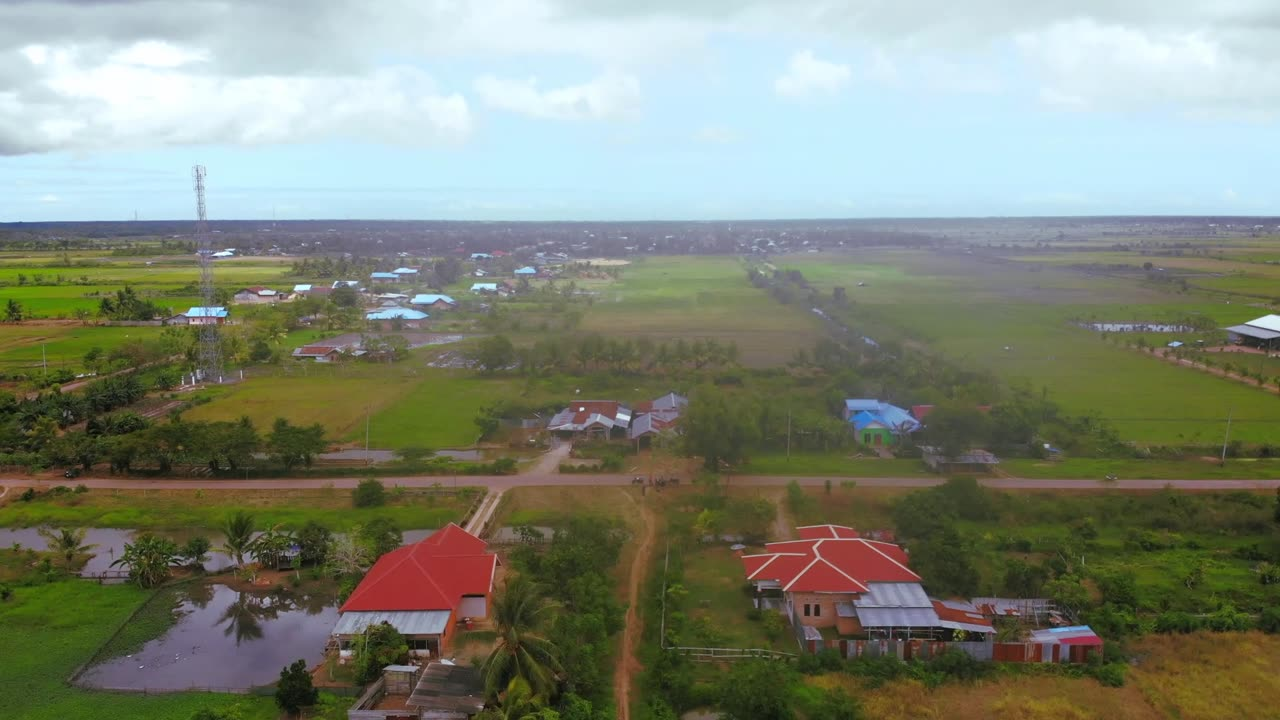
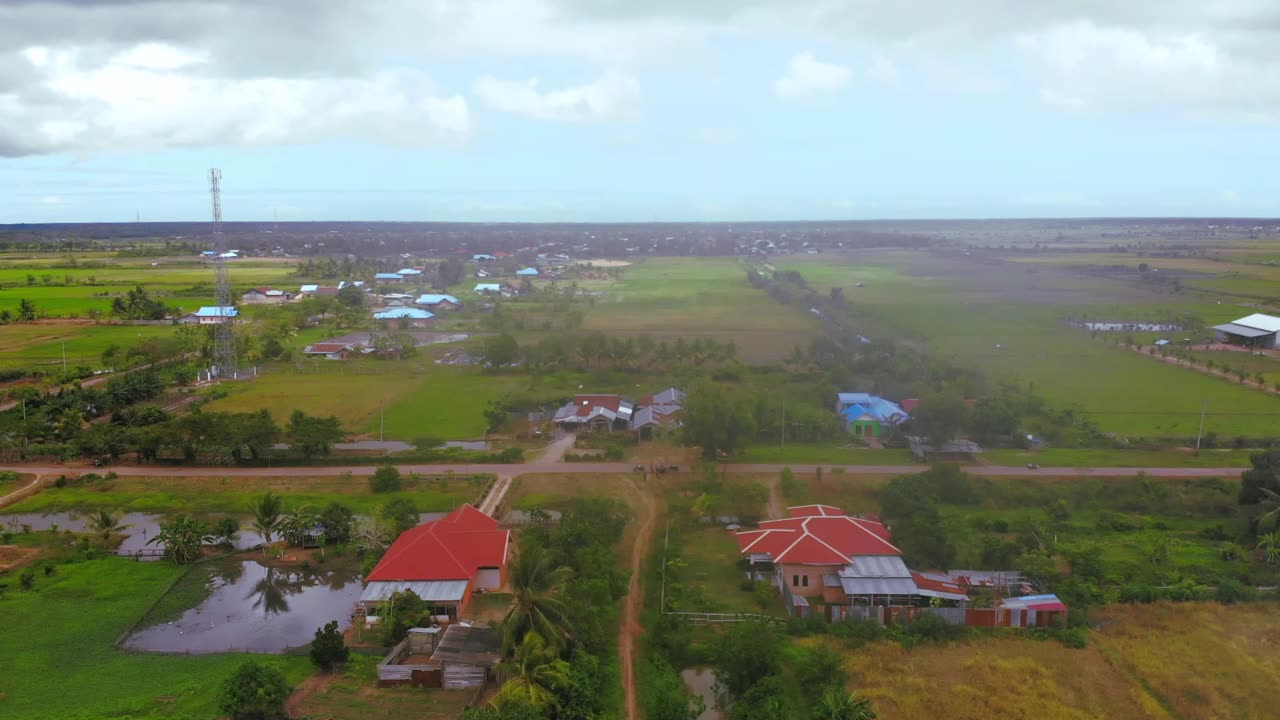
Video foto utama langsung tampil sejak awal (tanpa foto dulu); foto hanya cadangan bila video gagal
Claude-Session: https://claude.ai/code/session_01MUdfUYVnsBNJbfknhBZH59

diff --git a/assets/js/app.js b/assets/js/app.js
@@ -1638,34 +1638,32 @@
     function mulai() { if (!timer && !pakaiVideo) timer = setInterval(function () { ke(i + 1); }, 2000); }
     function henti() { clearInterval(timer); timer = null; }
     var tenang = window.matchMedia && matchMedia("(prefers-reduced-motion: reduce)").matches;
-    function jalan() { bangun(); if (!tenang) mulai(); }
-    var pakaiVideo = false;
+    var vEl = $("#heroVideo"), vBox = vEl && vEl.parentNode, pakaiVideo = !!vEl;
+    function jalan() { if (pakaiVideo) return; bangun(); if (!tenang) mulai(); }
     if (document.readyState === "complete") jalan(); else window.addEventListener("load", jalan);
     document.addEventListener("visibilitychange", function () { if (document.hidden) henti(); else if (siap && !tenang && !pakaiVideo) mulai(); });
 
-    /* ---- Video profil sebagai latar foto utama: tanpa suara, berulang, mengisi bingkai tanpa pita hitam.
-       Foto berganti tetap jalan sampai video benar-benar terputar; bila gagal, foto tetap dipakai. ---- */
-    var HV = D.heroVideo || {}, hemat = navigator.connection && navigator.connection.saveData;
-    if (HV.file && !tenang && !hemat) (function () {
-      var kecil = window.matchMedia && matchMedia("(max-width: 720px)").matches;
-      var box = document.createElement("div"); box.className = "hero__video"; box.setAttribute("aria-hidden", "true");
-      var v = document.createElement("video");
-      v.muted = true; v.defaultMuted = true; v.loop = true; v.autoplay = true; v.playsInline = true; v.preload = "auto";
-      v.setAttribute("muted", ""); v.setAttribute("playsinline", ""); v.setAttribute("webkit-playsinline", ""); v.setAttribute("disablepictureinpicture", ""); v.tabIndex = -1;
-      if (HV.poster) v.poster = HV.poster;
-      v.src = (kecil && HV.fileHp) ? HV.fileHp : HV.file;
-      box.appendChild(v); fig.insertBefore(box, cap);
-      var main = false;
-      function aktif() {
-        if (main) return; main = true; pakaiVideo = true; henti();
-        box.classList.add("is-on"); fig.classList.add("hero__photo--video");
-        if (cap && HV.ket) cap.textContent = HV.ket;
+    /* ---- Video profil langsung tampil sejak awal (ada di HTML, dengan gambar pembuka = bingkai pertama video).
+       Tanpa suara dan berulang. Foto berganti hanya dipakai bila video gagal dimuat. ---- */
+    if (vEl) (function () {
+      var HV = D.heroVideo || {};
+      if (cap && HV.ket) cap.textContent = HV.ket;
+      vEl.muted = true; vEl.defaultMuted = true;
+      function gagal() {
+        if (!pakaiVideo) return; pakaiVideo = false;
+        if (vBox) vBox.remove(); fig.classList.remove("hero__photo--video");
+        if (cap) cap.textContent = foto[0].ket;
+        if (document.readyState === "complete") jalan(); else window.addEventListener("load", jalan);
       }
-      function gagal() { if (!main) box.remove(); }
-      v.addEventListener("playing", aktif);
-      v.addEventListener("error", gagal);
-      var coba = v.play(); if (coba && coba.catch) coba.catch(function () { /* autoplay ditolak: tetap pakai foto */ setTimeout(function () { if (!main) gagal(); }, 1500); });
-      document.addEventListener("visibilitychange", function () { if (!main) return; if (document.hidden) v.pause(); else v.play().catch(function () {}); });
+      var srcs = vEl.querySelectorAll("source"); if (srcs.length) srcs[srcs.length - 1].addEventListener("error", gagal);
+      vEl.addEventListener("error", gagal);
+      // Kegagalan bisa terjadi sebelum skrip ini berjalan: periksa status sumber video sekarang dan saat halaman selesai dimuat
+      var cek = function () { if (vEl.error || (vEl.networkState === 3 && vEl.readyState === 0)) gagal(); };
+      cek(); window.addEventListener("load", function () { setTimeout(cek, 300); });
+      var hemat = navigator.connection && navigator.connection.saveData;
+      if (tenang || hemat) { vEl.pause(); vEl.removeAttribute("autoplay"); return; }   // tampilkan bingkai pembuka saja
+      var coba = vEl.play(); if (coba && coba.catch) coba.catch(function () { /* autoplay ditolak: bingkai pembuka video tetap tampil */ });
+      document.addEventListener("visibilitychange", function () { if (!pakaiVideo) return; if (document.hidden) vEl.pause(); else if (!tenang) vEl.play().catch(function () {}); });
     })();
   })();
 

diff --git a/index.html b/index.html
@@ -29,7 +29,7 @@
   <link rel="stylesheet" href="assets/css/fonts.css?v=1">
   <link rel="stylesheet" href="assets/vendor/leaflet/leaflet.css?v=1.9.4">
   <script src="assets/js/tema.js?v=1"></script>
-  <link rel="stylesheet" href="assets/css/style.css?v=1793855922">
+  <link rel="stylesheet" href="assets/css/style.css?v=1793856308">
   <link rel="stylesheet" href="assets/css/aspirasi.css?v=3">
 </head>
 <body>
@@ -149,9 +149,10 @@
           </div>
         </div>
         <div class="hero__bg" id="heroBg" aria-hidden="true"><img class="is-on" src="assets/img/udara/permukiman-sawah.jpg" alt=""></div>
-        <figure class="hero__photo" id="heroFoto">
-          <img class="hero__slide is-on" src="assets/img/udara/permukiman-sawah.jpg" width="1800" height="1012" alt="Foto udara permukiman dan hamparan sawah" fetchpriority="high">
-          <figcaption id="heroCap">Permukiman dan hamparan sawah dari udara. Foto udara, dokumentasi pemetaan kampung Juni 2022.</figcaption>
+        <figure class="hero__photo hero__photo--video" id="heroFoto">
+          <div class="hero__video is-on" aria-hidden="true"><video id="heroVideo" autoplay muted loop playsinline preload="auto" poster="assets/video/profil-lapangan-poster.jpg" disablepictureinpicture tabindex="-1"><source src="assets/video/profil-lapangan-hp.mp4" type="video/mp4" media="(max-width: 720px)"><source src="assets/video/profil-lapangan.mp4" type="video/mp4"></video></div>
+          <img class="hero__slide is-on" src="assets/img/udara/permukiman-sawah.jpg" width="1800" height="1012" alt="Foto udara permukiman dan hamparan sawah" loading="lazy" fetchpriority="low">
+          <figcaption id="heroCap">Video profil Kampung Marga Mulya.</figcaption>
         </figure>
       </div>
       <div class="wrap">
@@ -602,9 +603,9 @@
   </dialog>
 
   <script src="assets/vendor/leaflet/leaflet.js?v=1.9.4"></script>
-  <script src="assets/js/data.js?v=1793855922"></script>
-  <script src="assets/js/ilustrasi.js?v=1793855922"></script>
-  <script src="assets/js/app.js?v=1793855922"></script>
-  <script src="assets/js/router.js?v=1793855922"></script>
+  <script src="assets/js/data.js?v=1793856308"></script>
+  <script src="assets/js/ilustrasi.js?v=1793856308"></script>
+  <script src="assets/js/app.js?v=1793856308"></script>
+  <script src="assets/js/router.js?v=1793856308"></script>
 </body>
 </html>
